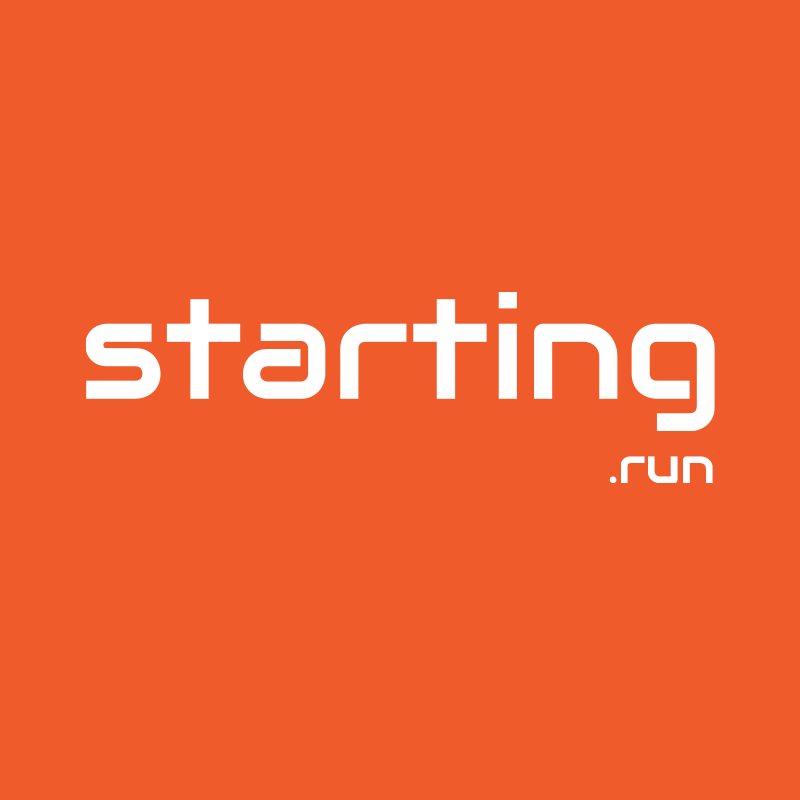
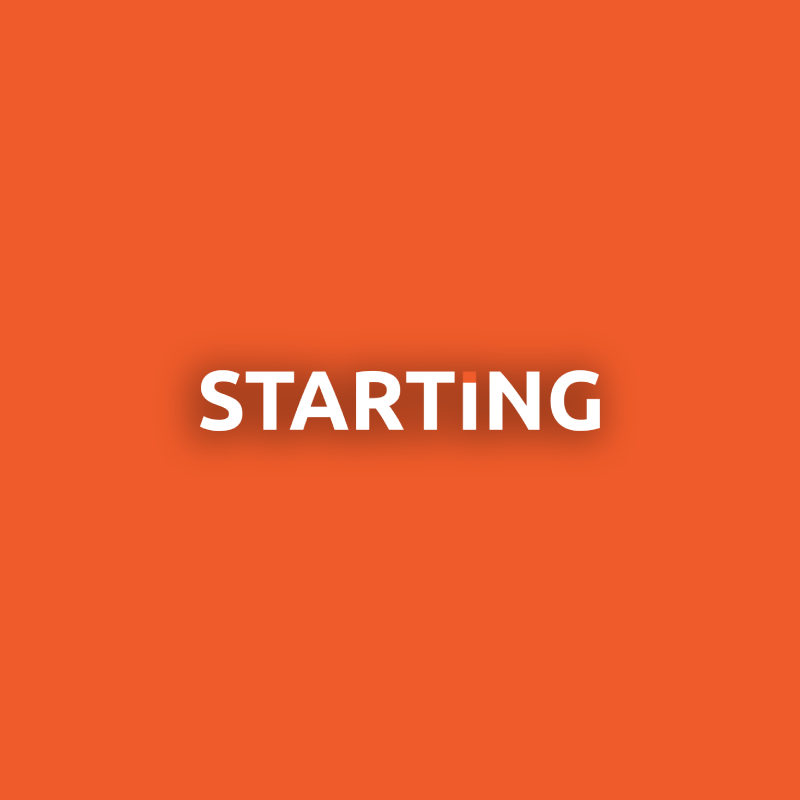
로고 및 메인 변경

Changed region(s): [[0.0938, 0.3438, 0.9062, 0.625]]

diff --git a/src/component/Function/DarkModeToggle.js b/src/component/Function/DarkModeToggle.js
@@ -1,15 +1,12 @@
-/*
-    조우현 - Woohyun Cho
-    tlrmsjtm77@gmail.com
-    https://starting.run
-*/
-
 import React, { useState, useEffect } from 'react';
 import icon1 from '../../images/ic-lightmode-w.svg';
 import icon2 from '../../images/ic-darkmode.svg';
+import hoverIcon1 from '../../images/ic-lightmode-on.png';
+import hoverIcon2 from '../../images/ic-darkmode-on.png';
 
 function DarkModeToggle() {
     const [darkMode, setDarkMode] = useState(false);
+    const [hover, setHover] = useState(false); // hover 상태 관리
 
     useEffect(() => {
         const isDarkMode = window.matchMedia('(prefers-color-scheme: dark)').matches;
@@ -35,8 +32,17 @@ function DarkModeToggle() {
             <div className="darkmode">
                 <div className="inner">
                     <input type="checkbox" id="toggle-dark-mode" checked={darkMode} onChange={toggleDarkMode} />
-                    <label htmlFor="toggle-dark-mode" className="darkmode-toggle fs-5">
-                        <img src={darkMode ? icon1 : icon2} alt="Dark mode toggle" className="dark-mode-icon" />
+                    <label 
+                        htmlFor="toggle-dark-mode" 
+                        className="darkmode-toggle fs-5"
+                        onMouseEnter={() => setHover(true)}
+                        onMouseLeave={() => setHover(false)}
+                    >
+                        <img 
+                            src={hover ? (darkMode ? hoverIcon1 : hoverIcon2) : (darkMode ? icon1 : icon2)} 
+                            alt="Dark mode toggle" 
+                            className="dark-mode-icon" 
+                        />
                     </label>
                 </div>
             </div>

diff --git a/src/App.css b/src/App.css
@@ -876,7 +876,6 @@
   width: 100%;
   position: absolute;
   top: 0;
-
 }
 
 .darkmode .inner input[type="checkbox"] {display: none;}
